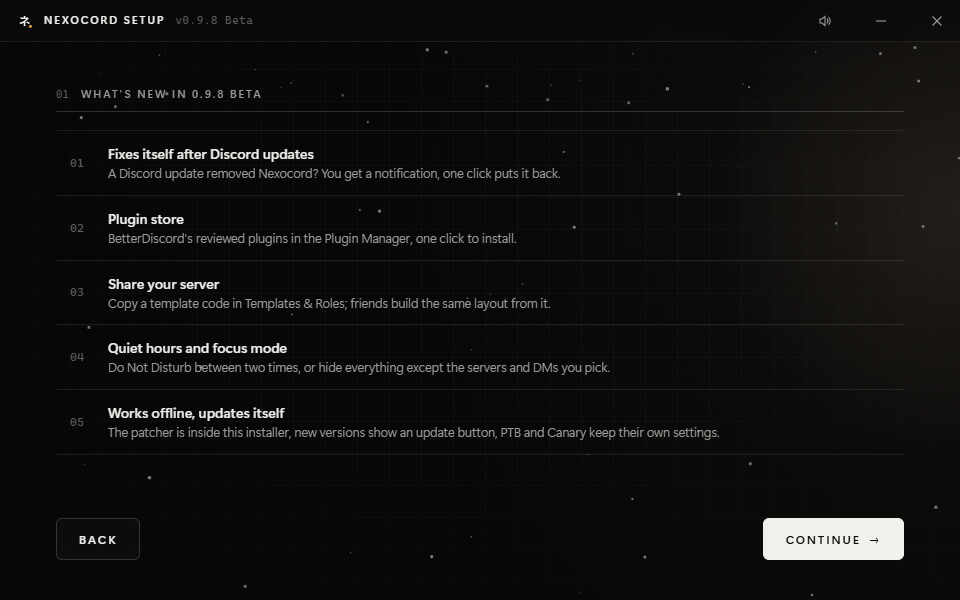
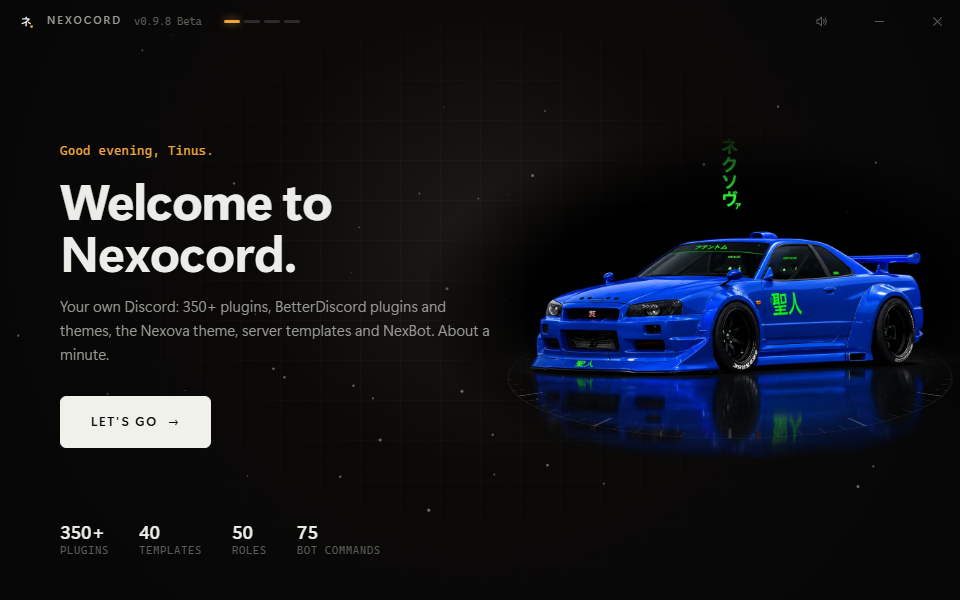
README: 0.9.9, new installer screenshot

diff --git a/README.md b/README.md
@@ -54,24 +54,24 @@ Three R34s, each with its own weather. All of it is drawn in CSS: Discord stays 
 
 <br>
 
-## `03` New in 0.9.8
+## `03` New in 0.9.9
 
 | | |
 |---|---|
-| **Repairs itself** | Discord updated and Nexocord is gone? A notification pops up, one click puts it back. |
-| **Plugin store** | BetterDiscord's reviewed plugins, each pinned to the exact version that was reviewed. |
-| **Share your server** | Copy a short code in Templates & Roles; a friend builds the same layout from it. |
-| **Quiet hours** | Do Not Disturb between two times. The people you pick still get through. |
-| **Focus mode** | Hide every server and DM except the ones you keep, for 30 minutes to 2 hours. |
-| **Second Discord** | Discord PTB or Canary get their own Nexocord with separate settings. |
-| **Updates itself** | The installer shows an update button when a new version lands here. |
+| **A brand-new installer** | Your R34 on a showroom turntable, calmer screens, clear choices. |
+| **Manage Nexocord** | Repair, safe mode, start without mods and uninstall in one clean screen. |
+| **Nexocord in your taskbar** | Discord's window and shortcuts wear the Nexocord emblem. |
+| **Readable voice tips** | Discord's voice panel tip is dark glass now instead of light text on white. |
+| **Repairs itself** | A Discord update removed Nexocord? A notification, one click puts it back. |
+| **Plugin store** | BetterDiscord's reviewed plugins, pinned to the exact reviewed version. |
+| **Quiet hours and focus mode** | Do Not Disturb between two times, or hide everything except what you pick. |
 
 <br>
 
 ## `04` Installing
 
 <div align="center">
-<img src="assets/installer.png" alt="The Nexocord installer" width="80%">
+<img src="assets/installer.png" alt="The Nexocord installer: your R34 on a turntable" width="80%">
 </div>
 
 <details>
@@ -80,6 +80,8 @@ Three R34s, each with its own weather. All of it is drawn in CSS: Discord stays 
 1. Download **[Install Nexocord.exe](https://github.com/Lokidook/Nexocord-releases/releases/latest/download/Install.Nexocord.exe)**.
 2. Double-click it. If Windows says "Windows protected your PC", click **More info → Run anyway** (the installer isn't signed with a paid certificate).
 3. **Let's go → Continue → Install Nexocord.** It closes Discord, installs, and starts Discord again.
+
+To repair or remove it later: Start menu → **Nexocord Setup** → Manage.
 
 Nexocord is in Discord's settings afterwards, and the Nexova theme is already on.
 </details>
